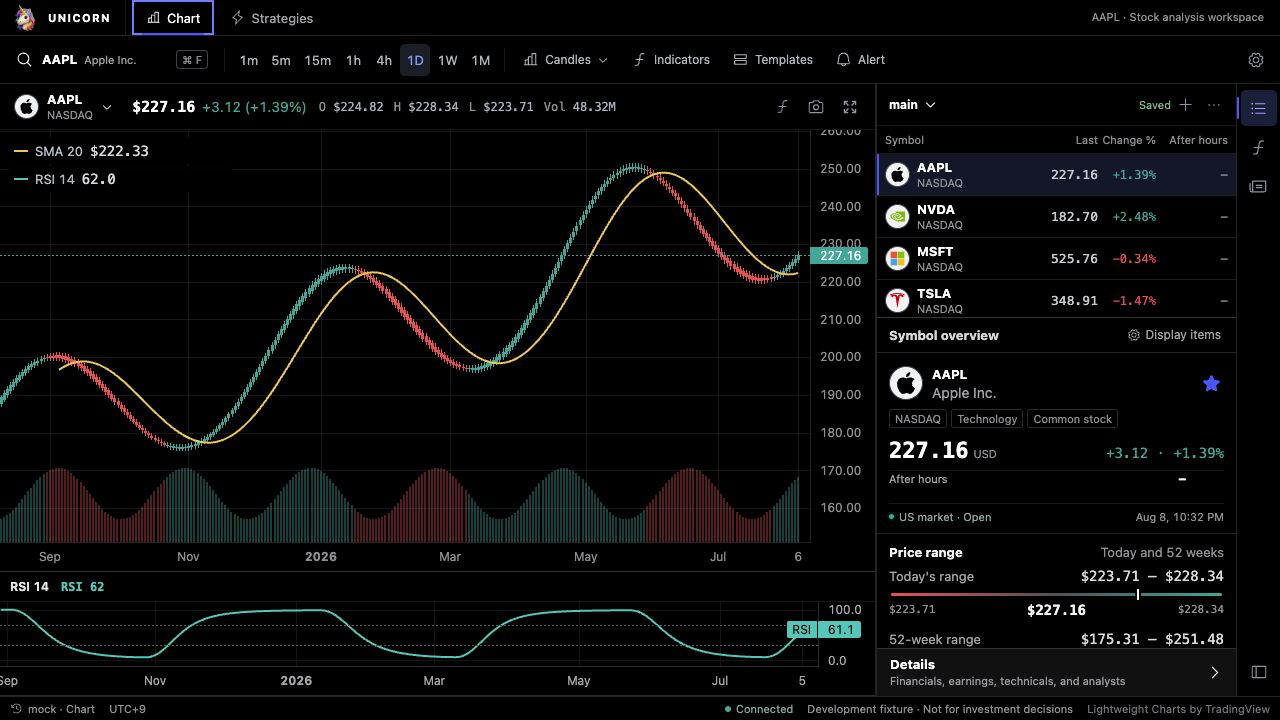
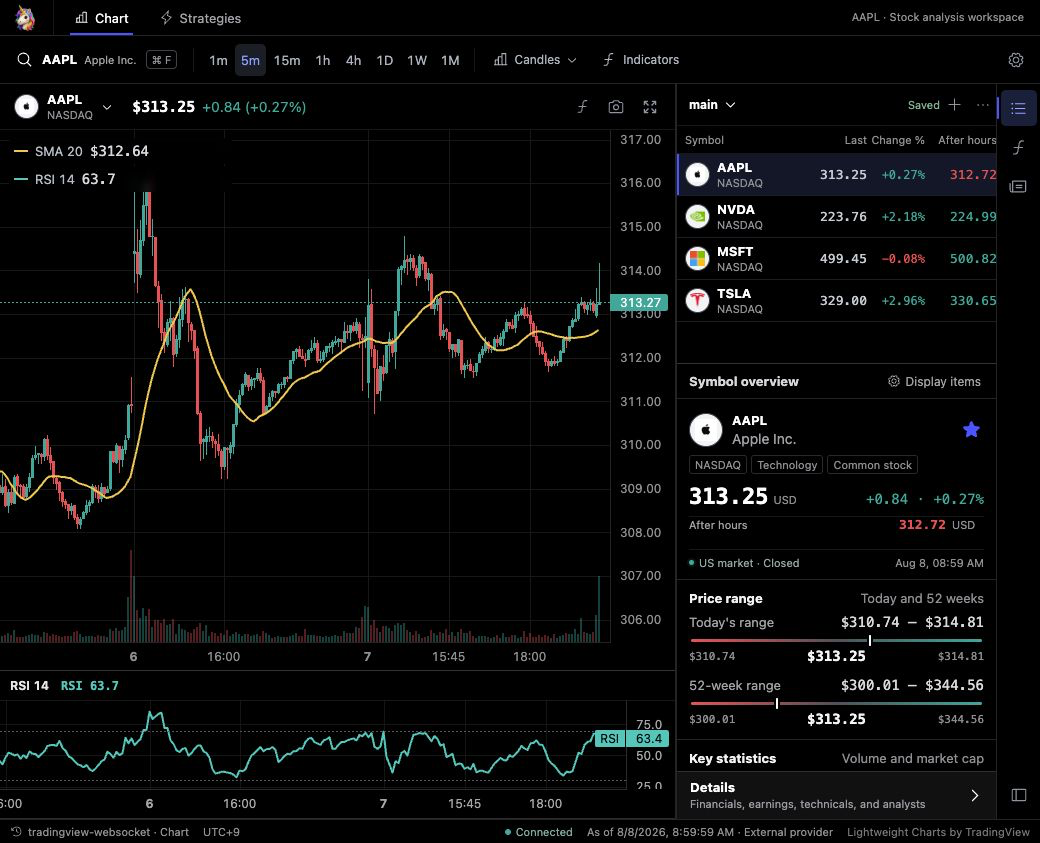
Refresh README with live-data screenshots

Changed region(s): [[0.0, 0.0, 1.0, 1.0], [0.8308, 0.3972, 0.9538, 0.55], [0.8308, 0.0, 0.9846, 0.0306]]

diff --git a/README.md b/README.md
@@ -1,16 +1,22 @@
+<p align="center">
+  <img src="public/unicorn-logo.png" alt="Unicorn logo" width="144">
+</p>
+
 # Unicorn
 
 Unicorn is an open-source, TradingView-inspired workspace for U.S. stock charts, company research, watchlists, technical indicators, and sample strategy portfolios.
 
 > Unicorn is a research prototype. It does not execute orders or provide investment advice. Strategy metrics are illustrative unless a backtest provider is connected.
 
-The screenshots below use Unicorn's deterministic mock profile and contain no downloaded provider dataset.
+The chart and symbol-detail screenshots below were captured with Unicorn's optional real-data profile and show time-sensitive, provider-derived values. The strategy screenshot uses Unicorn's deterministic sample catalog. No raw provider response payloads or downloaded datasets are bundled with the repository.
 
 ## Screens
 
 ### Chart workspace
 
 ![Unicorn chart workspace](public/screenshots/unicorn-chart.png)
+
+_Captured with Yahoo quote data and TradingView websocket bars. Prices and timestamps reflect the observations displayed in the UI._
 
 - candlestick, line, and area charts with 1m–1M timeframes
 - configurable 2–10,000 candle history; default 1,000
@@ -22,6 +28,8 @@ The screenshots below use Unicorn's deterministic mock profile and contain no do
 
 ![Unicorn symbol details](public/screenshots/unicorn-details.png)
 
+_Captured from provider-derived AAPL company data. Values and observation times are shown in the interface._
+
 - financial statements, valuation, profitability, balance sheet, cash flow, and earnings
 - Benzinga-compatible analyst ratings and target-price history
 - technical metrics calculated from the selected OHLCV series
@@ -30,6 +38,8 @@ The screenshots below use Unicorn's deterministic mock profile and contain no do
 ### Strategies
 
 ![Unicorn strategy list](public/screenshots/unicorn-strategies.png)
+
+_The built-in strategy catalog is deterministic sample data, not a verified backtest result._
 
 - sortable sample strategy table with return, drawdown, recovery factor, Sharpe ratio, audit state, and win rate
 - portfolio overview, holdings, transactions, profitability, and symbol contribution

diff --git a/THIRD_PARTY_NOTICES.md b/THIRD_PARTY_NOTICES.md
@@ -23,8 +23,11 @@ trademark disclaimer are documented in
 
 The Unicorn brand artwork in `public/unicorn-logo.png` was supplied by the
 project owner for this repository. It is not Apple emoji artwork. The README
-screenshots are captured from Unicorn's deterministic mock profile and do not
-bundle provider response payloads.
+chart and symbol-detail screenshots were captured with Unicorn's optional
+real-data profile and visually reproduce time-sensitive, provider-derived
+values. The strategy screenshot uses Unicorn's deterministic sample catalog.
+No raw provider response payloads or machine-readable provider datasets are
+bundled with the repository.
 
 ## Optional market-data adapters
 
